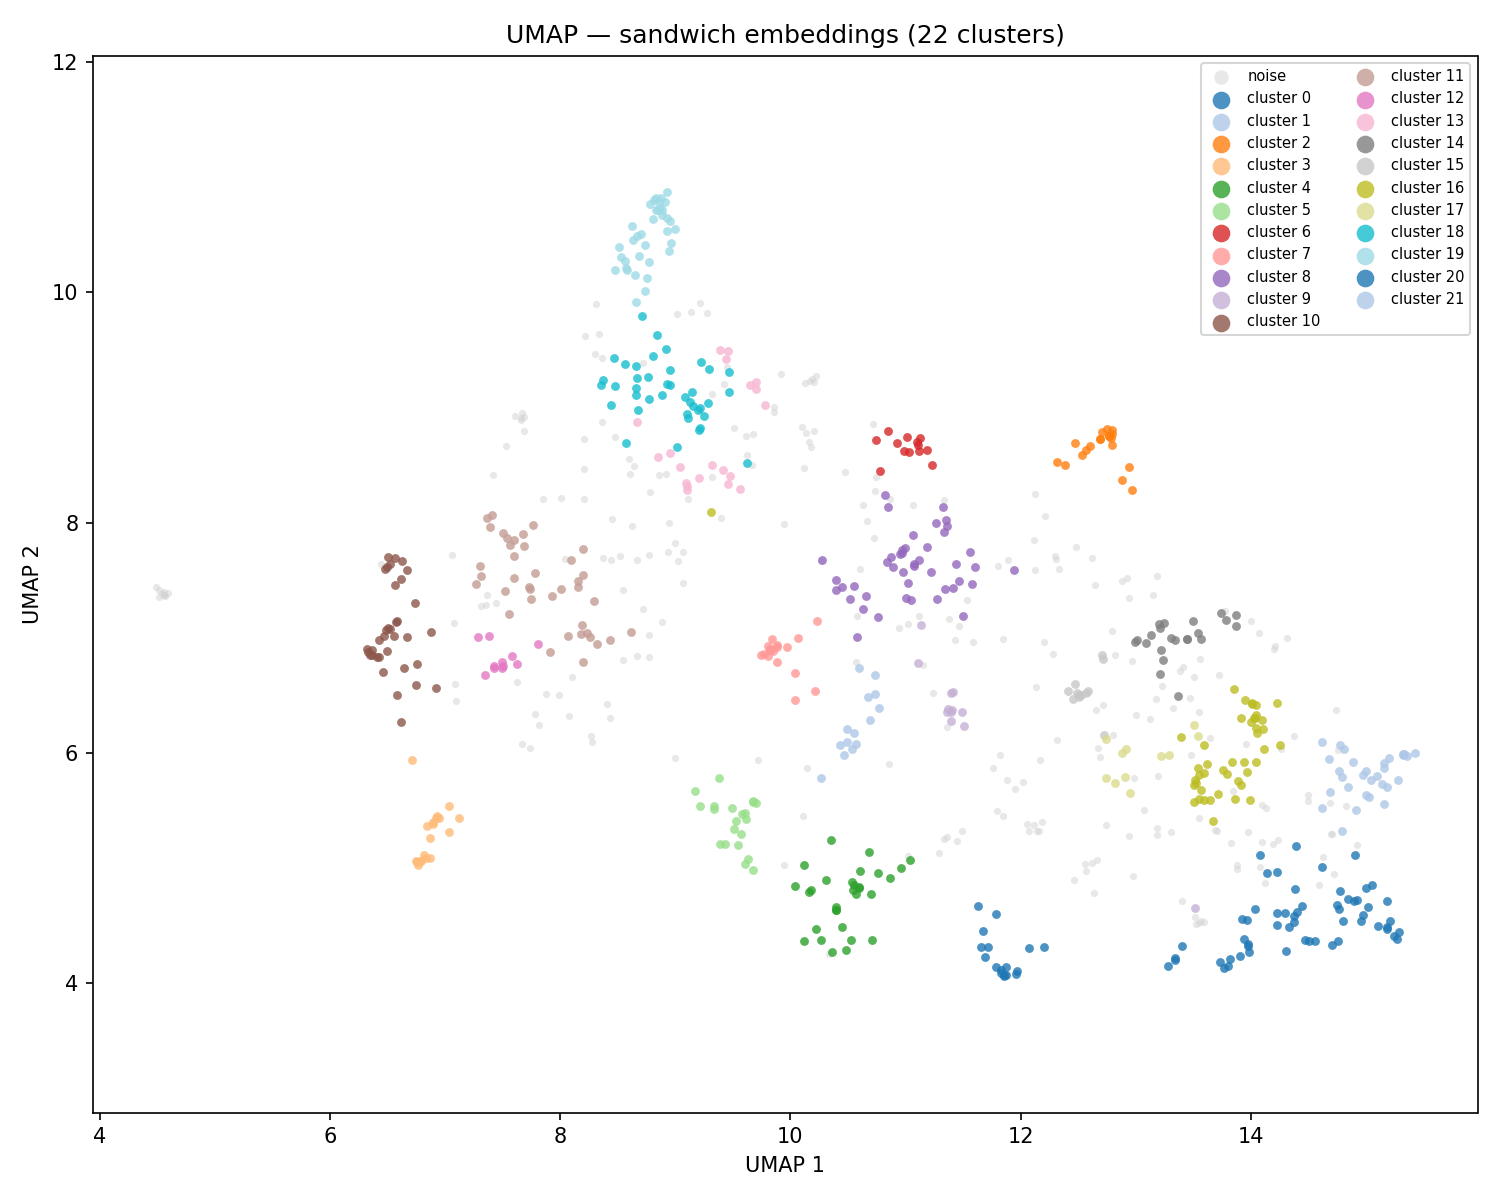
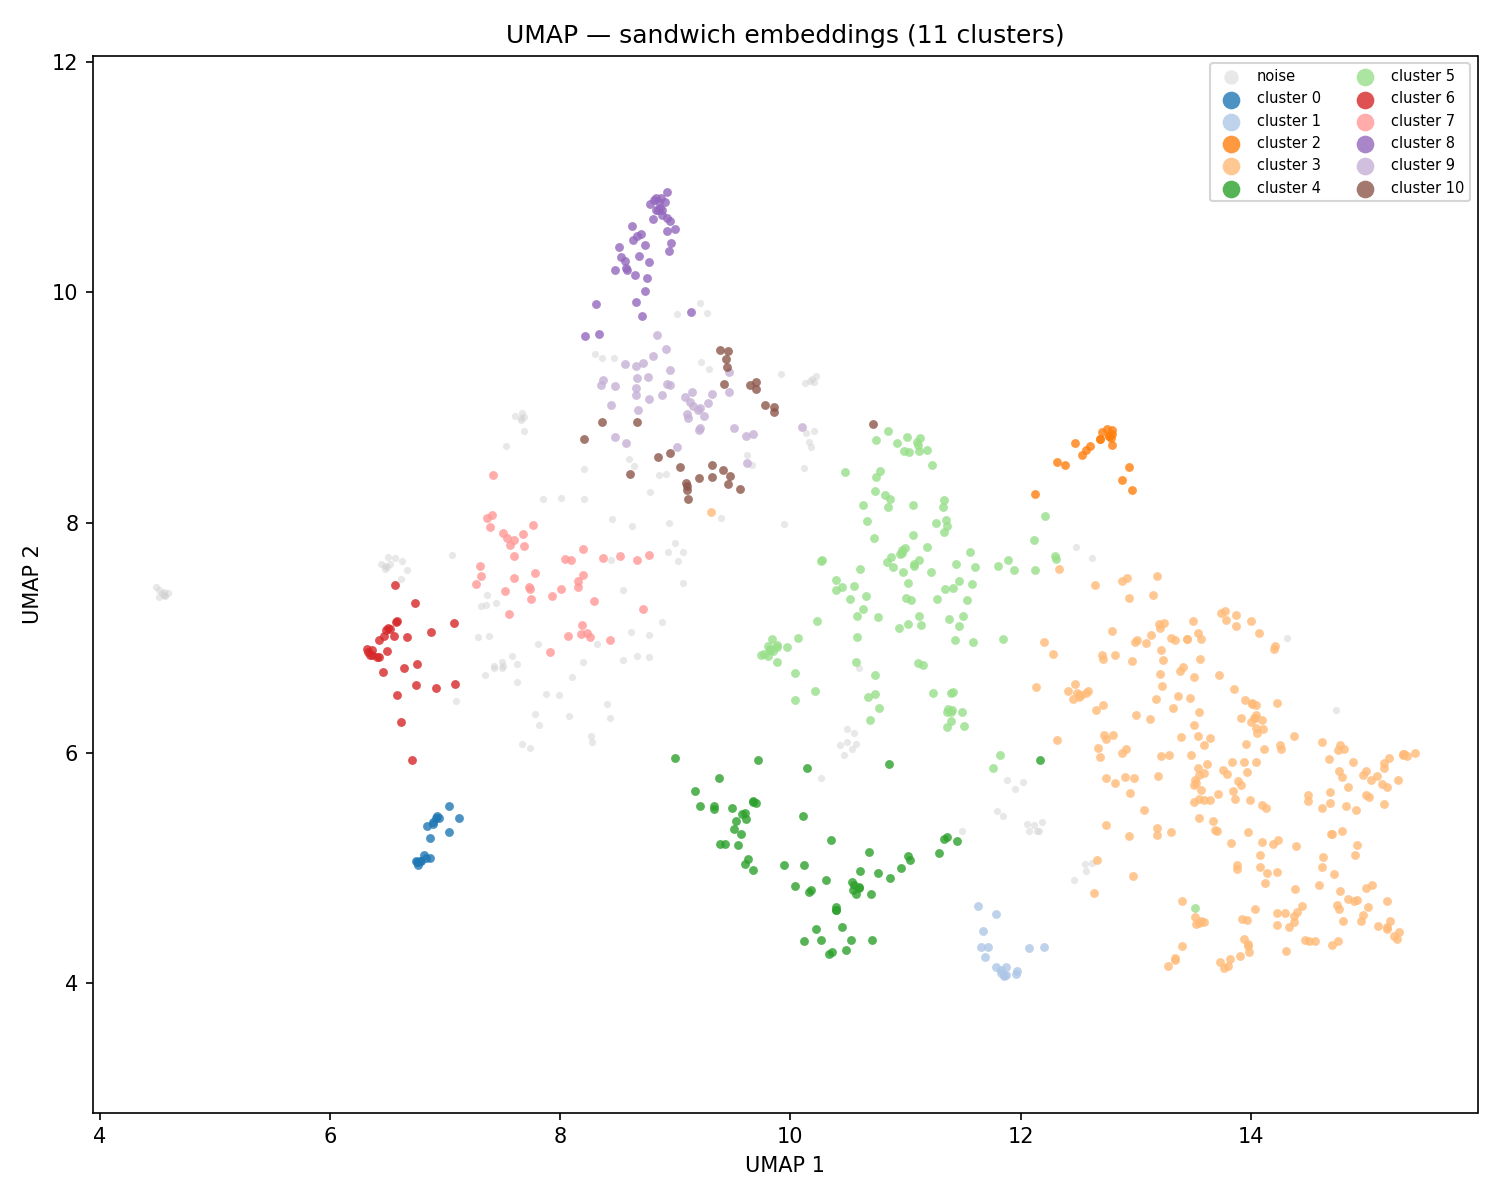
refactor(clustering): share env_positive_int; simplify cluster_search env parsing
- add env_positive_int in clustering; use for CLUSTERING_JOBS and grid workers
- inline list parsing in _load_grid; import shared helper from clustering
- refresh UMAP cluster plots for audio, sandwich, video

Made-with: Cursor

diff --git a/modules/cluster_search.py b/modules/cluster_search.py
@@ -9,20 +9,8 @@ from sqlalchemy.exc import IntegrityError
 
 from modules.console import progress
 from modules.database import Base, engine, get_session, ClusterRun
-from modules.clustering import compute_clusters, load_user_matrix
+from modules.clustering import compute_clusters, env_positive_int, load_user_matrix
 from modules.services import log
-
-
-def _parse_ints(val: str) -> list[int]:
-    return [int(x) for x in val.split()]
-
-
-def _parse_floats(val: str) -> list[float]:
-    return [float(x) for x in val.split()]
-
-
-def _parse_strs(val: str) -> list[str]:
-    return val.split()
 
 
 _PARAM_KEYS = (
@@ -57,16 +45,16 @@ def _load_grid() -> list[dict]:
     umap2d_n_neighbors and umap2d_min_dist are fixed scalars (not swept);
     umap2d_metric is swept independently as a list.
     """
-    umap_n_components  = _parse_ints(os.environ.get("CLUSTERING_UMAP_N_COMPONENTS", "15"))
-    umap_n_neighbors   = _parse_ints(os.environ.get("CLUSTERING_UMAP_N_NEIGHBORS", "15"))
-    umap_min_dist      = _parse_floats(os.environ.get("CLUSTERING_UMAP_MIN_DIST", "0.0"))
-    umap_metrics       = _parse_strs(os.environ.get("CLUSTERING_UMAP_METRICS", "cosine"))
+    umap_n_components  = [int(x) for x in os.environ.get("CLUSTERING_UMAP_N_COMPONENTS", "15").split()]
+    umap_n_neighbors   = [int(x) for x in os.environ.get("CLUSTERING_UMAP_N_NEIGHBORS", "15").split()]
+    umap_min_dist      = [float(x) for x in os.environ.get("CLUSTERING_UMAP_MIN_DIST", "0.0").split()]
+    umap_metrics       = os.environ.get("CLUSTERING_UMAP_METRICS", "cosine").split()
     umap2d_n_neighbors = int(os.environ.get("CLUSTERING_UMAP2D_N_NEIGHBORS", "15"))
     umap2d_min_dist    = float(os.environ.get("CLUSTERING_UMAP2D_MIN_DIST", "0.1"))
-    umap2d_metrics     = _parse_strs(os.environ.get("CLUSTERING_UMAP2D_METRICS", "cosine"))
-    hdbscan_min_sizes  = _parse_ints(os.environ.get("CLUSTERING_HDBSCAN_MIN_CLUSTER_SIZE", "15"))
-    hdbscan_selection  = _parse_strs(os.environ.get("CLUSTERING_HDBSCAN_SELECTION", "eom"))
-    hdbscan_metrics    = _parse_strs(os.environ.get("CLUSTERING_HDBSCAN_METRICS", "euclidean"))
+    umap2d_metrics     = os.environ.get("CLUSTERING_UMAP2D_METRICS", "cosine").split()
+    hdbscan_min_sizes  = [int(x) for x in os.environ.get("CLUSTERING_HDBSCAN_MIN_CLUSTER_SIZE", "15").split()]
+    hdbscan_selection  = os.environ.get("CLUSTERING_HDBSCAN_SELECTION", "eom").split()
+    hdbscan_metrics    = os.environ.get("CLUSTERING_HDBSCAN_METRICS", "euclidean").split()
     random_state       = int(os.environ.get("CLUSTERING_RANDOM_STATE", "42"))
     cases              = ["video", "sandwich", "audio"]
 
@@ -93,24 +81,6 @@ def _load_grid() -> list[dict]:
     return combos
 
 
-def _clustering_jobs() -> int:
-    raw = os.environ.get("CLUSTERING_JOBS", "1").strip()
-    try:
-        n = int(raw)
-    except ValueError:
-        n = 1
-    return max(1, n)
-
-
-def _clustering_grid_workers() -> int:
-    raw = os.environ.get("CLUSTERING_GRID_WORKERS", "1").strip()
-    try:
-        n = int(raw)
-    except ValueError:
-        n = 1
-    return max(1, n)
-
-
 def run_cluster_search() -> None:
     """Run grid search over all hyperparameter combos from env; save metrics to ClusterRun.
 
@@ -123,8 +93,8 @@ def run_cluster_search() -> None:
     """
     Base.metadata.create_all(engine)
     combos = _load_grid()
-    umap_n_jobs = _clustering_jobs()
-    grid_workers = _clustering_grid_workers()
+    umap_n_jobs = env_positive_int("CLUSTERING_JOBS")
+    grid_workers = env_positive_int("CLUSTERING_GRID_WORKERS")
 
     combos_by_case: dict[str, list[dict]] = {}
     for combo in combos:

diff --git a/modules/clustering.py b/modules/clustering.py
@@ -11,6 +11,15 @@ from modules.database import Base, engine, get_session, UserEmbedding, UserClust
 from modules.services import log
 
 
+def env_positive_int(key: str, default: str = "1") -> int:
+    raw = os.environ.get(key, default).strip()
+    try:
+        n = int(raw)
+    except ValueError:
+        n = int(default)
+    return max(1, n)
+
+
 @dataclass
 class ClusterResult:
     labels: np.ndarray
@@ -150,12 +159,7 @@ def load_user_matrix(embedding_case: str) -> tuple[np.ndarray, list[int]]:
 
 
 def _clustering_jobs_env() -> int:
-    raw = os.environ.get("CLUSTERING_JOBS", "1").strip()
-    try:
-        n = int(raw)
-    except ValueError:
-        n = 1
-    return max(1, n)
+    return env_positive_int("CLUSTERING_JOBS")
 
 
 def cluster_users(embedding_case: str, **params) -> None:
